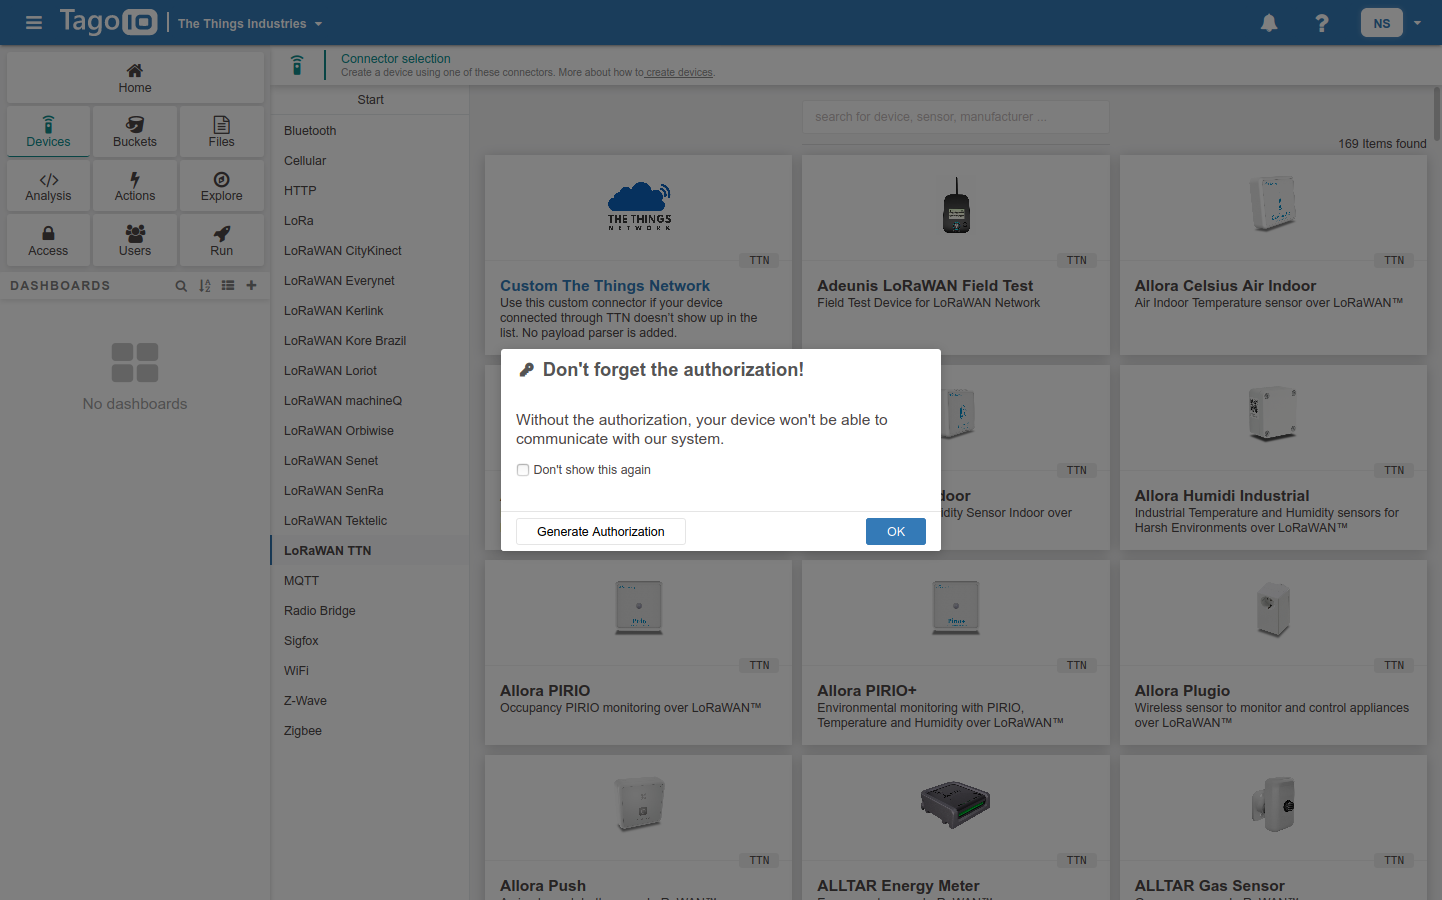
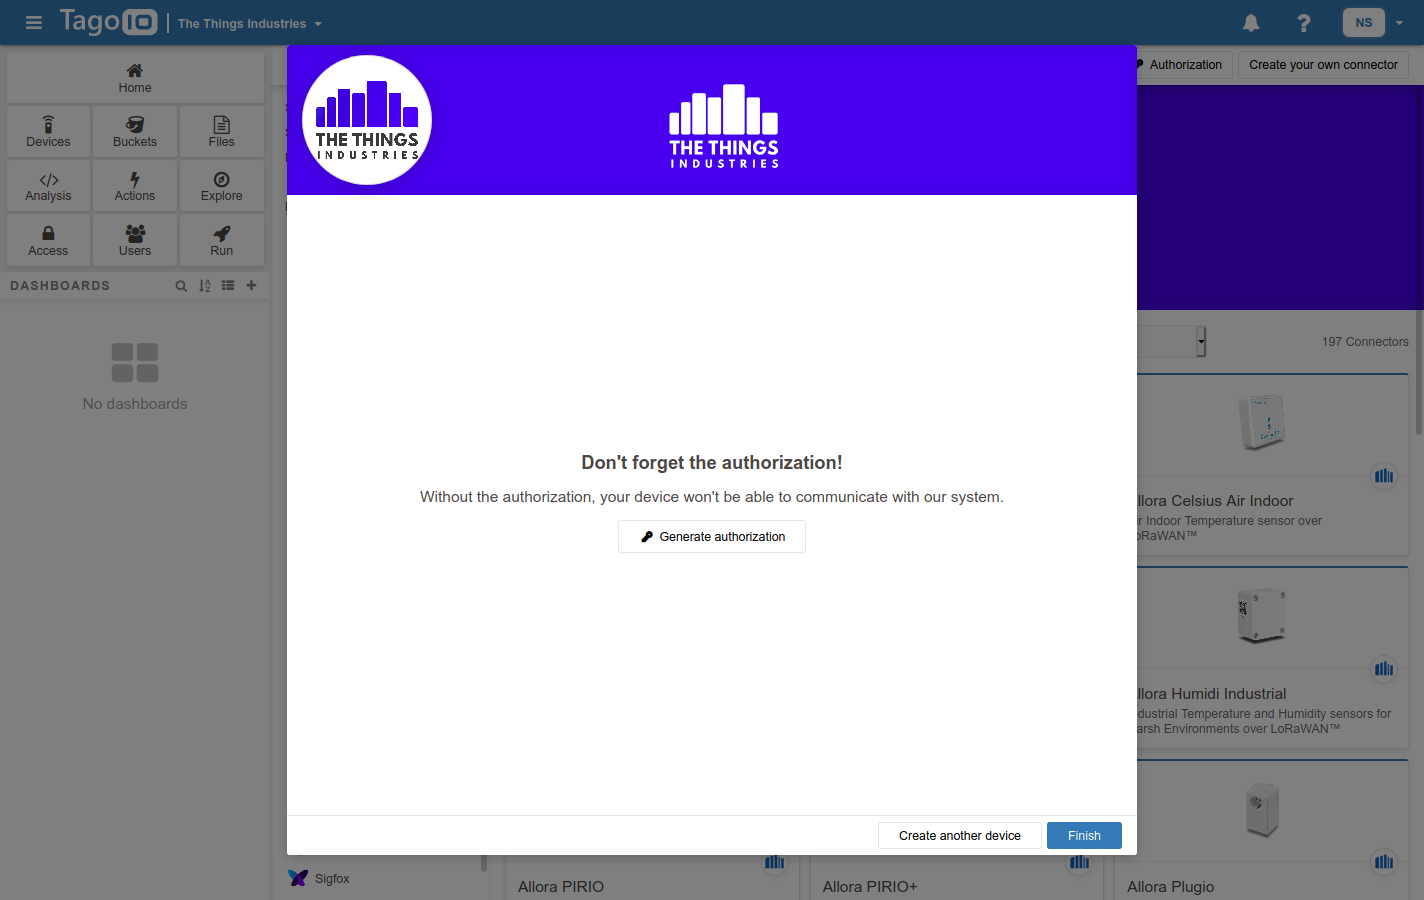
doc: Update TagoIO integration doc

diff --git a/doc/content/integrations/cloud-integrations/tagoio/tagoio-setup/_index.md b/doc/content/integrations/cloud-integrations/tagoio/tagoio-setup/_index.md
@@ -10,23 +10,29 @@ This section helps you to prepare TagoIO setup for integration with {{% tts %}}.
 
 Log in to your TagoIO user account and click the **Devices** button on the left hand menu. 
 
-Select **Add Device** in the upper right to add a new device.
+The list of available connectors will pop out immediately if you do not own any devices. 
 
-The list of available devices will pop out. Choose **LoRaWAN TTN** and then select **Custom The Things Network**.
+>**Note:** If you already own some devices on TagoIO, select **Add Device** in the upper right to add a new device.
 
-{{< figure src="custom-ttn-device.png" alt="Choosing a Custom TTN device" >}}
+Choose **LoRaWAN TTI** connector and then select **Custom The Things Industries**.
 
-Give a name to your device by filling the **Device name** field, enter the **Device EUI** and click the **Create device** button to finish.
+{{< figure src="custom-tti-device.png" alt="Choosing a Custom TTN device" >}}
+
+Give a name to your device by filling the **Device name** field, enter the **Device EUI** and click the **Create my device** button to finish.
 
 {{< figure src="device-settings.png" alt="Configuring a device" >}}
 
-When your device has been created, the window with a note for generating an [authorization](https://docs.tago.io/en/articles/218) will pop out. Click the **Generate Authorization** button. 
+When the device has been succesfully created, you will be presented with a confirmation window, so you can just click **Continue**. 
+
+{{< figure src="confirmation-window.png" alt="Device successfully created" >}}
+
+Now, **Don't forget the [authorization](https://docs.tago.io/en/articles/218)!** Click the **Generate authorization** button. 
 
 {{< figure src="auth-pop-out.png" alt="Generate Authorization pop-out window" >}}
 
-When redirected to the **Service Authorization** page, fill in the **Name** field and select **Generate**. Copy this value for further steps.
+When redirected to the **Service Authorization** page, just fill in the **Name** field and select **Generate**. Copy this value for further steps.
 
-Select the created device in **Devices** to access its features.
+Click **Finish** and select the device you just created in **Devices** to access its features.
 
 {{< figure src="device-features.png" alt="Device features" >}}
 

diff --git a/doc/content/integrations/cloud-integrations/tagoio/tts-setup/_index.md b/doc/content/integrations/cloud-integrations/tagoio/tts-setup/_index.md
@@ -8,9 +8,9 @@ Next, create a Webhook integration on {{% tts %}} by following this section.
 
 <!--more-->
 
->Note: **TagoIO** Webhook template is now available on {{% tts %}}, but in case you want to create a **Custom webhook**, this guide can be helpful. Read more about these templates in the [Webhook templates]({{< ref "/integrations/webhooks/webhook-templates" >}}) page.
+>**Note:** **TagoIO** Webhook template is now available on {{% tts %}}, but in case you want to create a **Custom webhook**, this guide can be helpful. Read more about these templates in the [Webhook templates]({{< ref "/integrations/webhooks/webhook-templates" >}}) page.
 
->Note: this section follows the [HTTP Webhooks]({{< ref "/integrations/webhooks" >}}) guide.  
+>**Note:** this section follows the [HTTP Webhooks]({{< ref "/integrations/webhooks" >}}) guide.  
 
 Fill in the **Webhook ID** field. 
 
